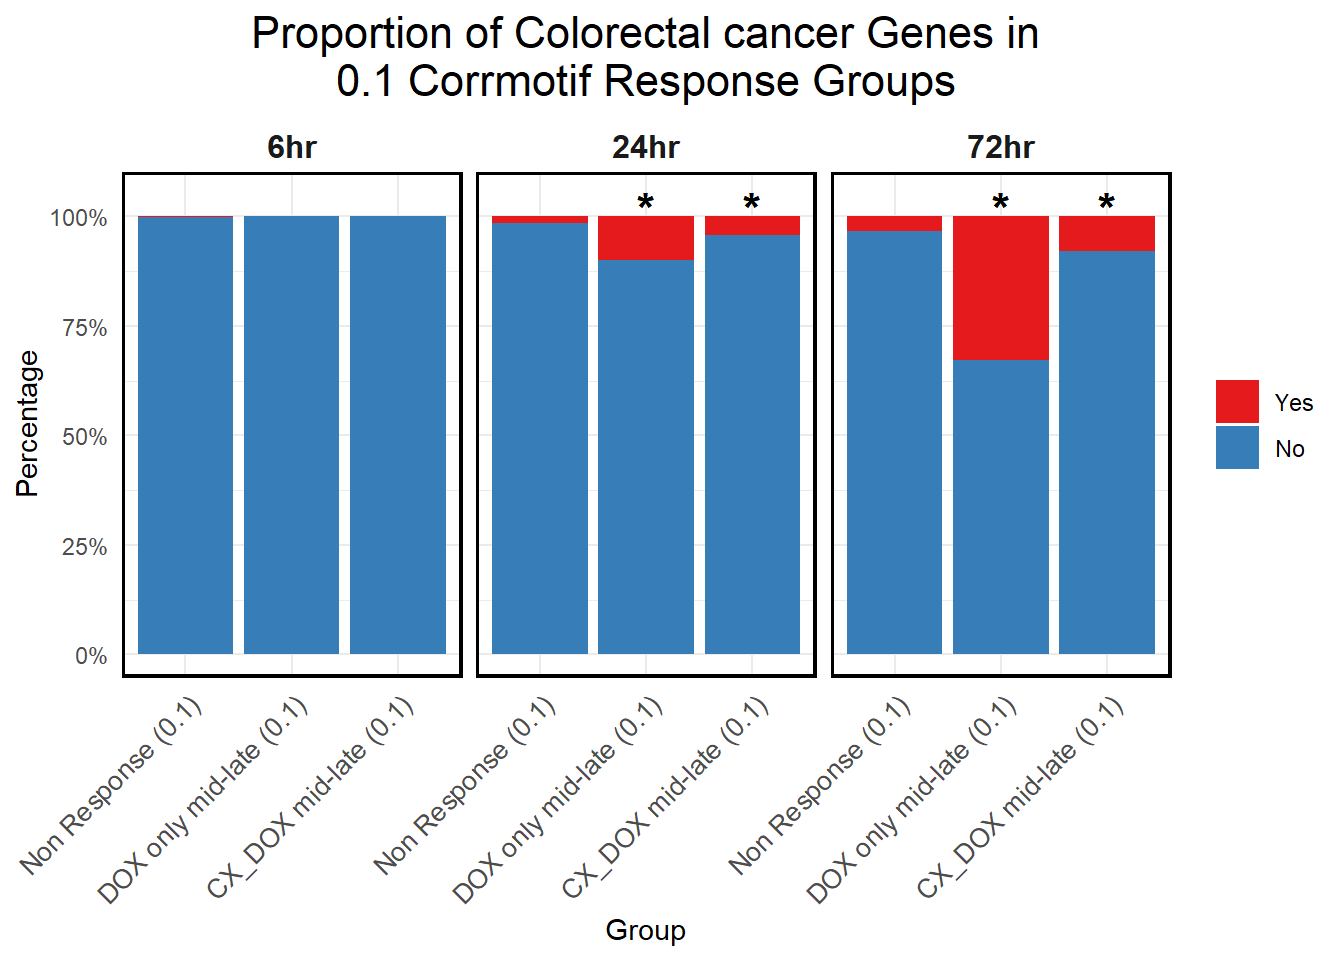
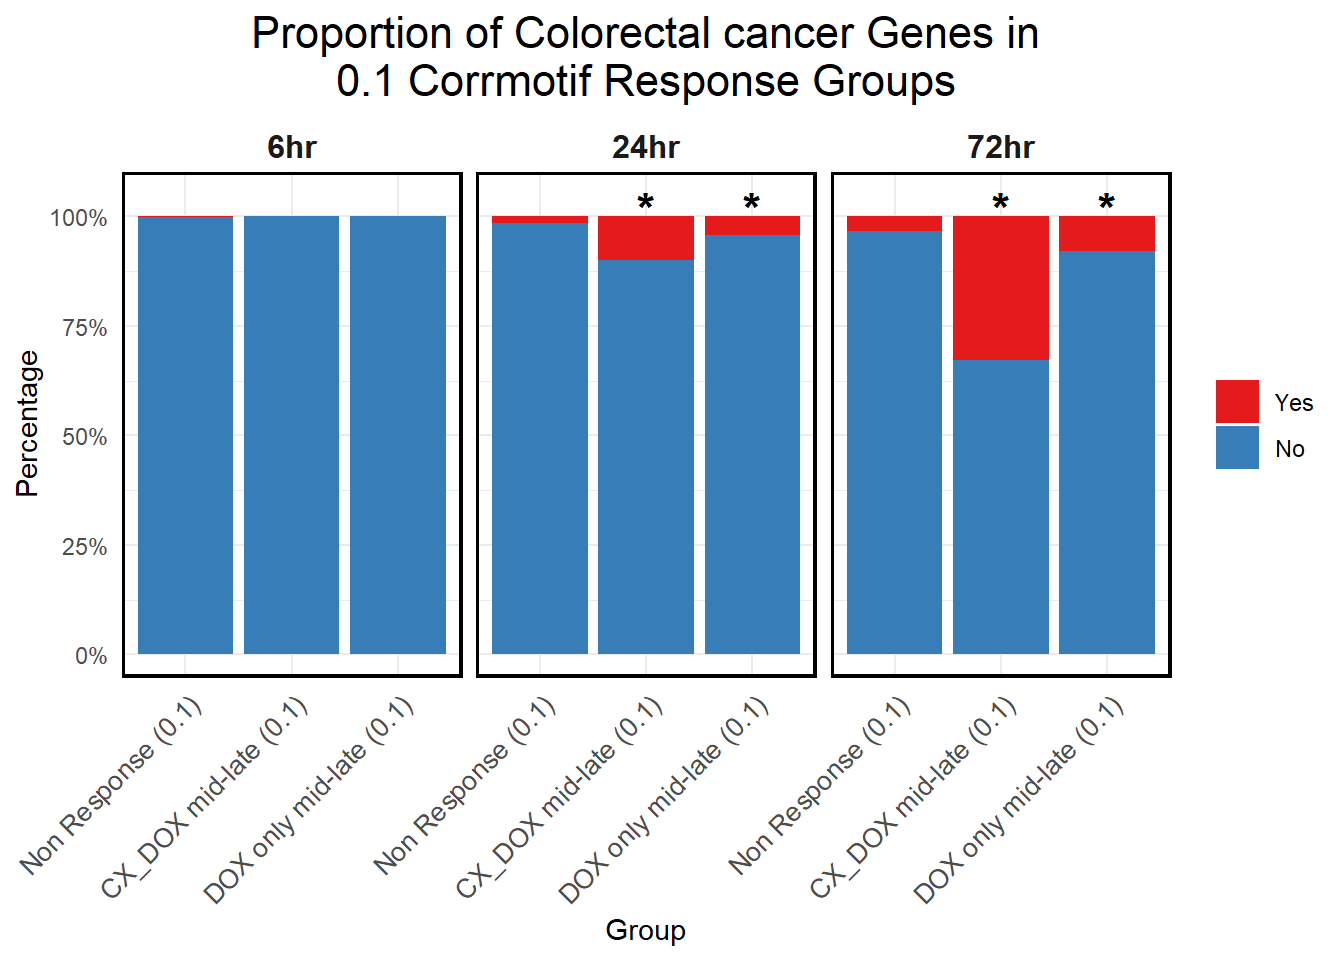
Commit

diff --git a/docs/Colorectal.html b/docs/Colorectal.html
@@ -378,7 +378,7 @@ aria-hidden="true"></span> </a>
 <div class="tab-content">
 <div id="summary" class="tab-pane fade in active">
 <p>
-<strong>Last updated:</strong> 2025-03-05
+<strong>Last updated:</strong> 2025-03-06
 </p>
 <p>
 <strong>Checks:</strong> <span
@@ -512,15 +512,15 @@ project makes it easier to run your code on other machines.</p>
 <div class="panel panel-default">
 <div class="panel-heading">
 <p class="panel-title">
-<a data-toggle="collapse" data-parent="#workflowr-checks" href="#strongRepositoryversionstrongahrefhttpsgithubcomsayanpaul01CX5461Projecttree07caa2fdb1c88047c32f0d632105c92d1f23a0e3targetblank07caa2fa">
+<a data-toggle="collapse" data-parent="#workflowr-checks" href="#strongRepositoryversionstrongahrefhttpsgithubcomsayanpaul01CX5461Projecttree81247f64f08df43c2b40a386707fc8e9cc240143targetblank81247f6a">
 <span class="glyphicon glyphicon-ok text-success"
 aria-hidden="true"></span> <strong>Repository version:</strong>
-<a href="https://github.com/sayanpaul01/CX5461_Project/tree/07caa2fdb1c88047c32f0d632105c92d1f23a0e3" target="_blank">07caa2f</a>
+<a href="https://github.com/sayanpaul01/CX5461_Project/tree/81247f64f08df43c2b40a386707fc8e9cc240143" target="_blank">81247f6</a>
 </a>
 </p>
 </div>
 <div
[2 lines of base64/hex data omitted]
 class="panel-collapse collapse">
 <div class="panel-body">
 <p>
@@ -530,7 +530,7 @@ reproducibility.
 </p>
 <p>
 The results in this page were generated with repository version
-<a href="https://github.com/sayanpaul01/CX5461_Project/tree/07caa2fdb1c88047c32f0d632105c92d1f23a0e3" target="_blank">07caa2f</a>.
+<a href="https://github.com/sayanpaul01/CX5461_Project/tree/81247f64f08df43c2b40a386707fc8e9cc240143" target="_blank">81247f6</a>.
 See the <em>Past versions</em> tab to see a history of the changes made
 to the R Markdown and HTML files.
 </p>
@@ -548,6 +548,7 @@ Ignored files:
     Ignored:    .RData
     Ignored:    .Rhistory
     Ignored:    .Rproj.user/
+    Ignored:    analysis/figure/
 
 Unstaged changes:
     Modified:   analysis/Colorectal.Rmd
@@ -596,6 +597,40 @@ Message
 </tr>
 </thead>
 <tbody>
+<tr>
+<td>
+Rmd
+</td>
+<td>
+<a href="https://github.com/sayanpaul01/CX5461_Project/blob/3e51d798b2f3f0acf7ff448e36b88f121b1e1b33/analysis/Colorectal.Rmd" target="_blank">3e51d79</a>
+</td>
+<td>
+sayanpaul01
+</td>
+<td>
+2025-03-05
+</td>
+<td>
+Commit
+</td>
+</tr>
+<tr>
+<td>
+html
+</td>
+<td>
+<a href="https://rawcdn.githack.com/sayanpaul01/CX5461_Project/3e51d798b2f3f0acf7ff448e36b88f121b1e1b33/docs/Colorectal.html" target="_blank">3e51d79</a>
+</td>
+<td>
+sayanpaul01
+</td>
+<td>
+2025-03-05
+</td>
+<td>
+Commit
+</td>
+</tr>
 <tr>
 <td>
 Rmd
@@ -1053,6 +1088,17 @@ Date
 </tr>
 </thead>
 <tbody>
+<tr>
+<td>
+<a href="https://github.com/sayanpaul01/CX5461_Project/blob/3e51d798b2f3f0acf7ff448e36b88f121b1e1b33/docs/figure/Colorectal.Rmd/load_DEGs-1.png" target="_blank">3e51d79</a>
+</td>
+<td>
+sayanpaul01
+</td>
+<td>
+2025-03-05
+</td>
+</tr>
 <tr>
 <td>
 <a href="https://github.com/sayanpaul01/CX5461_Project/blob/1c452e8edce05d8c2b57824fd14e295a7ebb85ac/docs/figure/Colorectal.Rmd/load_DEGs-1.png" target="_blank">1c452e8</a>
@@ -1519,8 +1565,8 @@ lit_genes &lt;- lapply(data_list, function(df) df$Entrez_ID)
 # Load Corrmotif Groups for 0.1 Concentration
 prob_groups_0.1 &lt;- list(
   &quot;Non Response (0.1)&quot; = read.csv(&quot;data/prob_1_0.1.csv&quot;)$Entrez_ID,
-  &quot;DOX only mid-late (0.1)&quot; = read.csv(&quot;data/prob_2_0.1.csv&quot;)$Entrez_ID,
-  &quot;CX_DOX mid-late (0.1)&quot; = read.csv(&quot;data/prob_3_0.1.csv&quot;)$Entrez_ID
+  &quot;CX_DOX mid-late (0.1)&quot; = read.csv(&quot;data/prob_2_0.1.csv&quot;)$Entrez_ID,
+  &quot;DOX only mid-late (0.1)&quot;= read.csv(&quot;data/prob_3_0.1.csv&quot;)$Entrez_ID
 )
 
 # Function to calculate proportions in colorectal cancer dataset
@@ -1543,9 +1589,10 @@ calculate_proportion &lt;- function(deg_list, group_name, cancer_genes, timepoin
 # Calculate Proportions for Each Timepoint
 proportion_data &lt;- bind_rows(
   lapply(names(lit_genes), function(tp) calculate_proportion(prob_groups_0.1[[&quot;Non Response (0.1)&quot;]], &quot;Non Response (0.1)&quot;, lit_genes[[tp]], tp)),
-  lapply(names(lit_genes), function(tp) calculate_proportion(prob_groups_0.1[[&quot;DOX only mid-late (0.1)&quot;]], &quot;DOX only mid-late (0.1)&quot;, lit_genes[[tp]], tp)),
-  lapply(names(lit_genes), function(tp) calculate_proportion(prob_groups_0.1[[&quot;CX_DOX mid-late (0.1)&quot;]], &quot;CX_DOX mid-late (0.1)&quot;, lit_genes[[tp]], tp))
-)
+  lapply(names(lit_genes), function(tp) calculate_proportion(prob_groups_0.1[[&quot;CX_DOX mid-late (0.1)&quot;]], &quot;CX_DOX mid-late (0.1)&quot;, lit_genes[[tp]], tp)),
+  lapply(names(lit_genes), function(tp) calculate_proportion(prob_groups_0.1[[&quot;DOX only mid-late (0.1)&quot;]], &quot;DOX only mid-late (0.1)&quot;, lit_genes[[tp]], tp)))
+  
+  
 
 # Convert Data to Long Format for Faceting
 proportion_long &lt;- proportion_data %&gt;%
@@ -1555,7 +1602,7 @@ proportion_long &lt;- proportion_data %&gt;%
 # Perform Chi-Square Test Comparing Groups to Non-Response
 test_results &lt;- data.frame(Group = character(), Timepoint = character(), P_Value = numeric())
 
-target_groups &lt;- c(&quot;DOX only mid-late (0.1)&quot;, &quot;CX_DOX mid-late (0.1)&quot;)
+target_groups &lt;- c(&quot;CX_DOX mid-late (0.1)&quot;, &quot;DOX only mid-late (0.1)&quot;)
 for (tp in names(lit_genes)) {
   for (grp in target_groups) {
     contingency_table &lt;- matrix(
@@ -1580,7 +1627,7 @@ test_results$Significant &lt;- ifelse(test_results$P_Value &lt; 0.05, &quot;*&qu
 proportion_long &lt;- left_join(proportion_long, test_results, by = c(&quot;Group&quot;, &quot;Timepoint&quot;))
 
 # Ensure Correct Ordering
-proportion_long$Group &lt;- factor(proportion_long$Group, levels = c(&quot;Non Response (0.1)&quot;, &quot;DOX only mid-late (0.1)&quot;, &quot;CX_DOX mid-late (0.1)&quot;))
+proportion_long$Group &lt;- factor(proportion_long$Group, levels = c(&quot;Non Response (0.1)&quot;, &quot;CX_DOX mid-late (0.1)&quot;, &quot;DOX only mid-late (0.1)&quot;))
 proportion_long$Timepoint &lt;- factor(proportion_long$Timepoint, levels = c(&quot;6hr&quot;, &quot;24hr&quot;, &quot;72hr&quot;))
 proportion_long$Category &lt;- factor(proportion_long$Category, levels = c(&quot;Yes&quot;, &quot;No&quot;))
 
